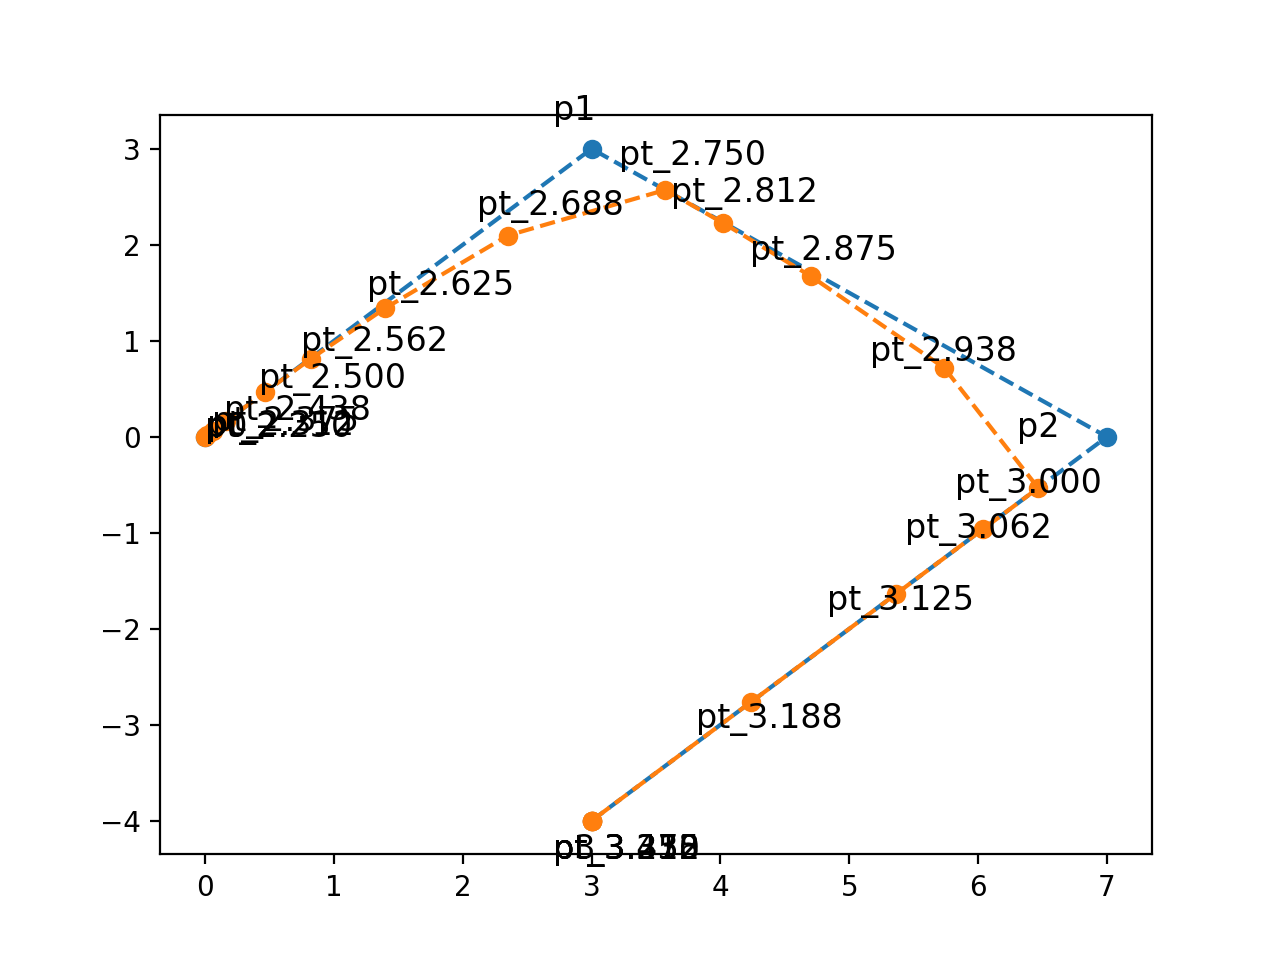
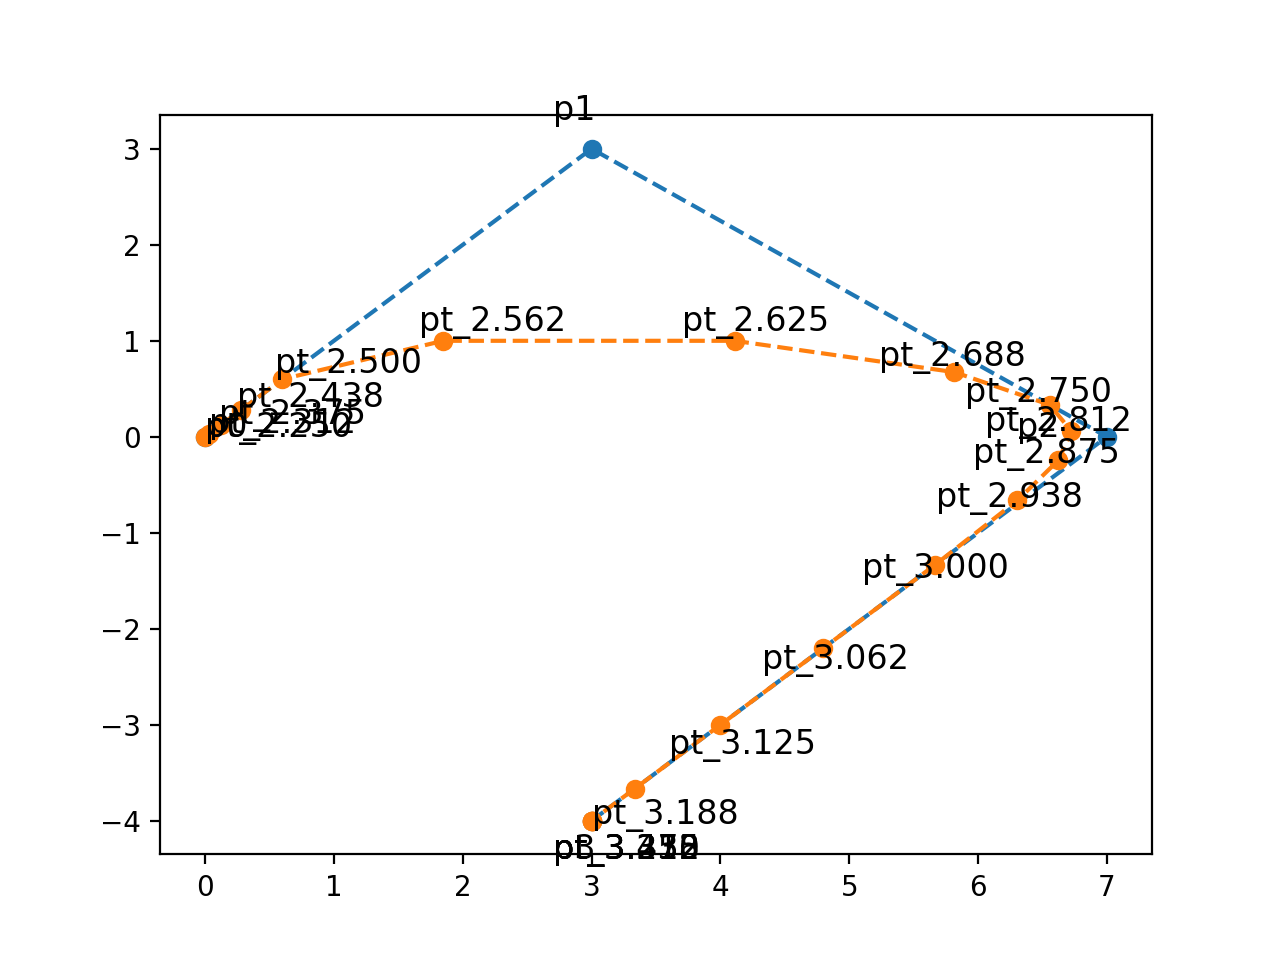
Fixed(Malik Spasibo)

Changed region(s): [[0.1562, 0.125, 0.875, 0.7812], [0.4688, 0.7812, 0.5938, 0.875]]

diff --git a/Examples/BSplineNurbse/Nurbse.py b/Examples/BSplineNurbse/Nurbse.py
@@ -15,11 +15,8 @@ def getN(t, k, T: np.ndarray, q):
             sum += ((T[k + q] - t) / (T[k + q] - T[k + 1])) * recurs2
         return sum
 
+
 def getPt(t, p0, p1, p2, p3, w0, w1, w2, w3, T: np.ndarray, pNumber):
-    # print("getN(t=t, k=0, T=T, q=pNumber - 1) = ",getN(t=t, k=0, T=T, q=pNumber - 1))
-    # print("getN(t=t, k=1, T=T, q=pNumber - 1) = ",getN(t=t, k=1, T=T, q=pNumber - 1))
-    # print("getN(t=t, k=2, T=T, q=pNumber - 1) = ",getN(t=t, k=2, T=T, q=pNumber - 1))
-    # print("getN(t=t, k=3, T=T, q=pNumber - 1) = ",getN(t=t, k=3, T=T, q=pNumber - 1))
     return (w0 * p0 * getN(t=t, k=0, T=T, q=pNumber - 1) +
             w1 * p1 * getN(t=t, k=1, T=T, q=pNumber - 1) +
             w2 * p2 * getN(t=t, k=2, T=T, q=pNumber - 1) +
@@ -40,7 +37,7 @@ if __name__ == '__main__':
     # points
     px = np.array([0, 3, 7, 3])
     py = np.array([0, 3, 0, -4])
-    w = np.array([0.5, 0.5, 0.5, 0.5])
+    w = np.array([1.0, 0.25, 2.0, 1.0])
 
     print("Default poligon\nx\ty")
     for x, y in zip(px, py):
@@ -66,7 +63,7 @@ if __name__ == '__main__':
 
     if (input("SAVE[Y/n]") == "Y"):
         name = input("Name = ")
-        plt.savefig("BSplineNurbse/Pictures"+name, dpi=200)
+        plt.savefig("Pictures/"+name, dpi=200)
     if (input("SHOW[Y/n]") == "Y"):
         plt.show()
 
